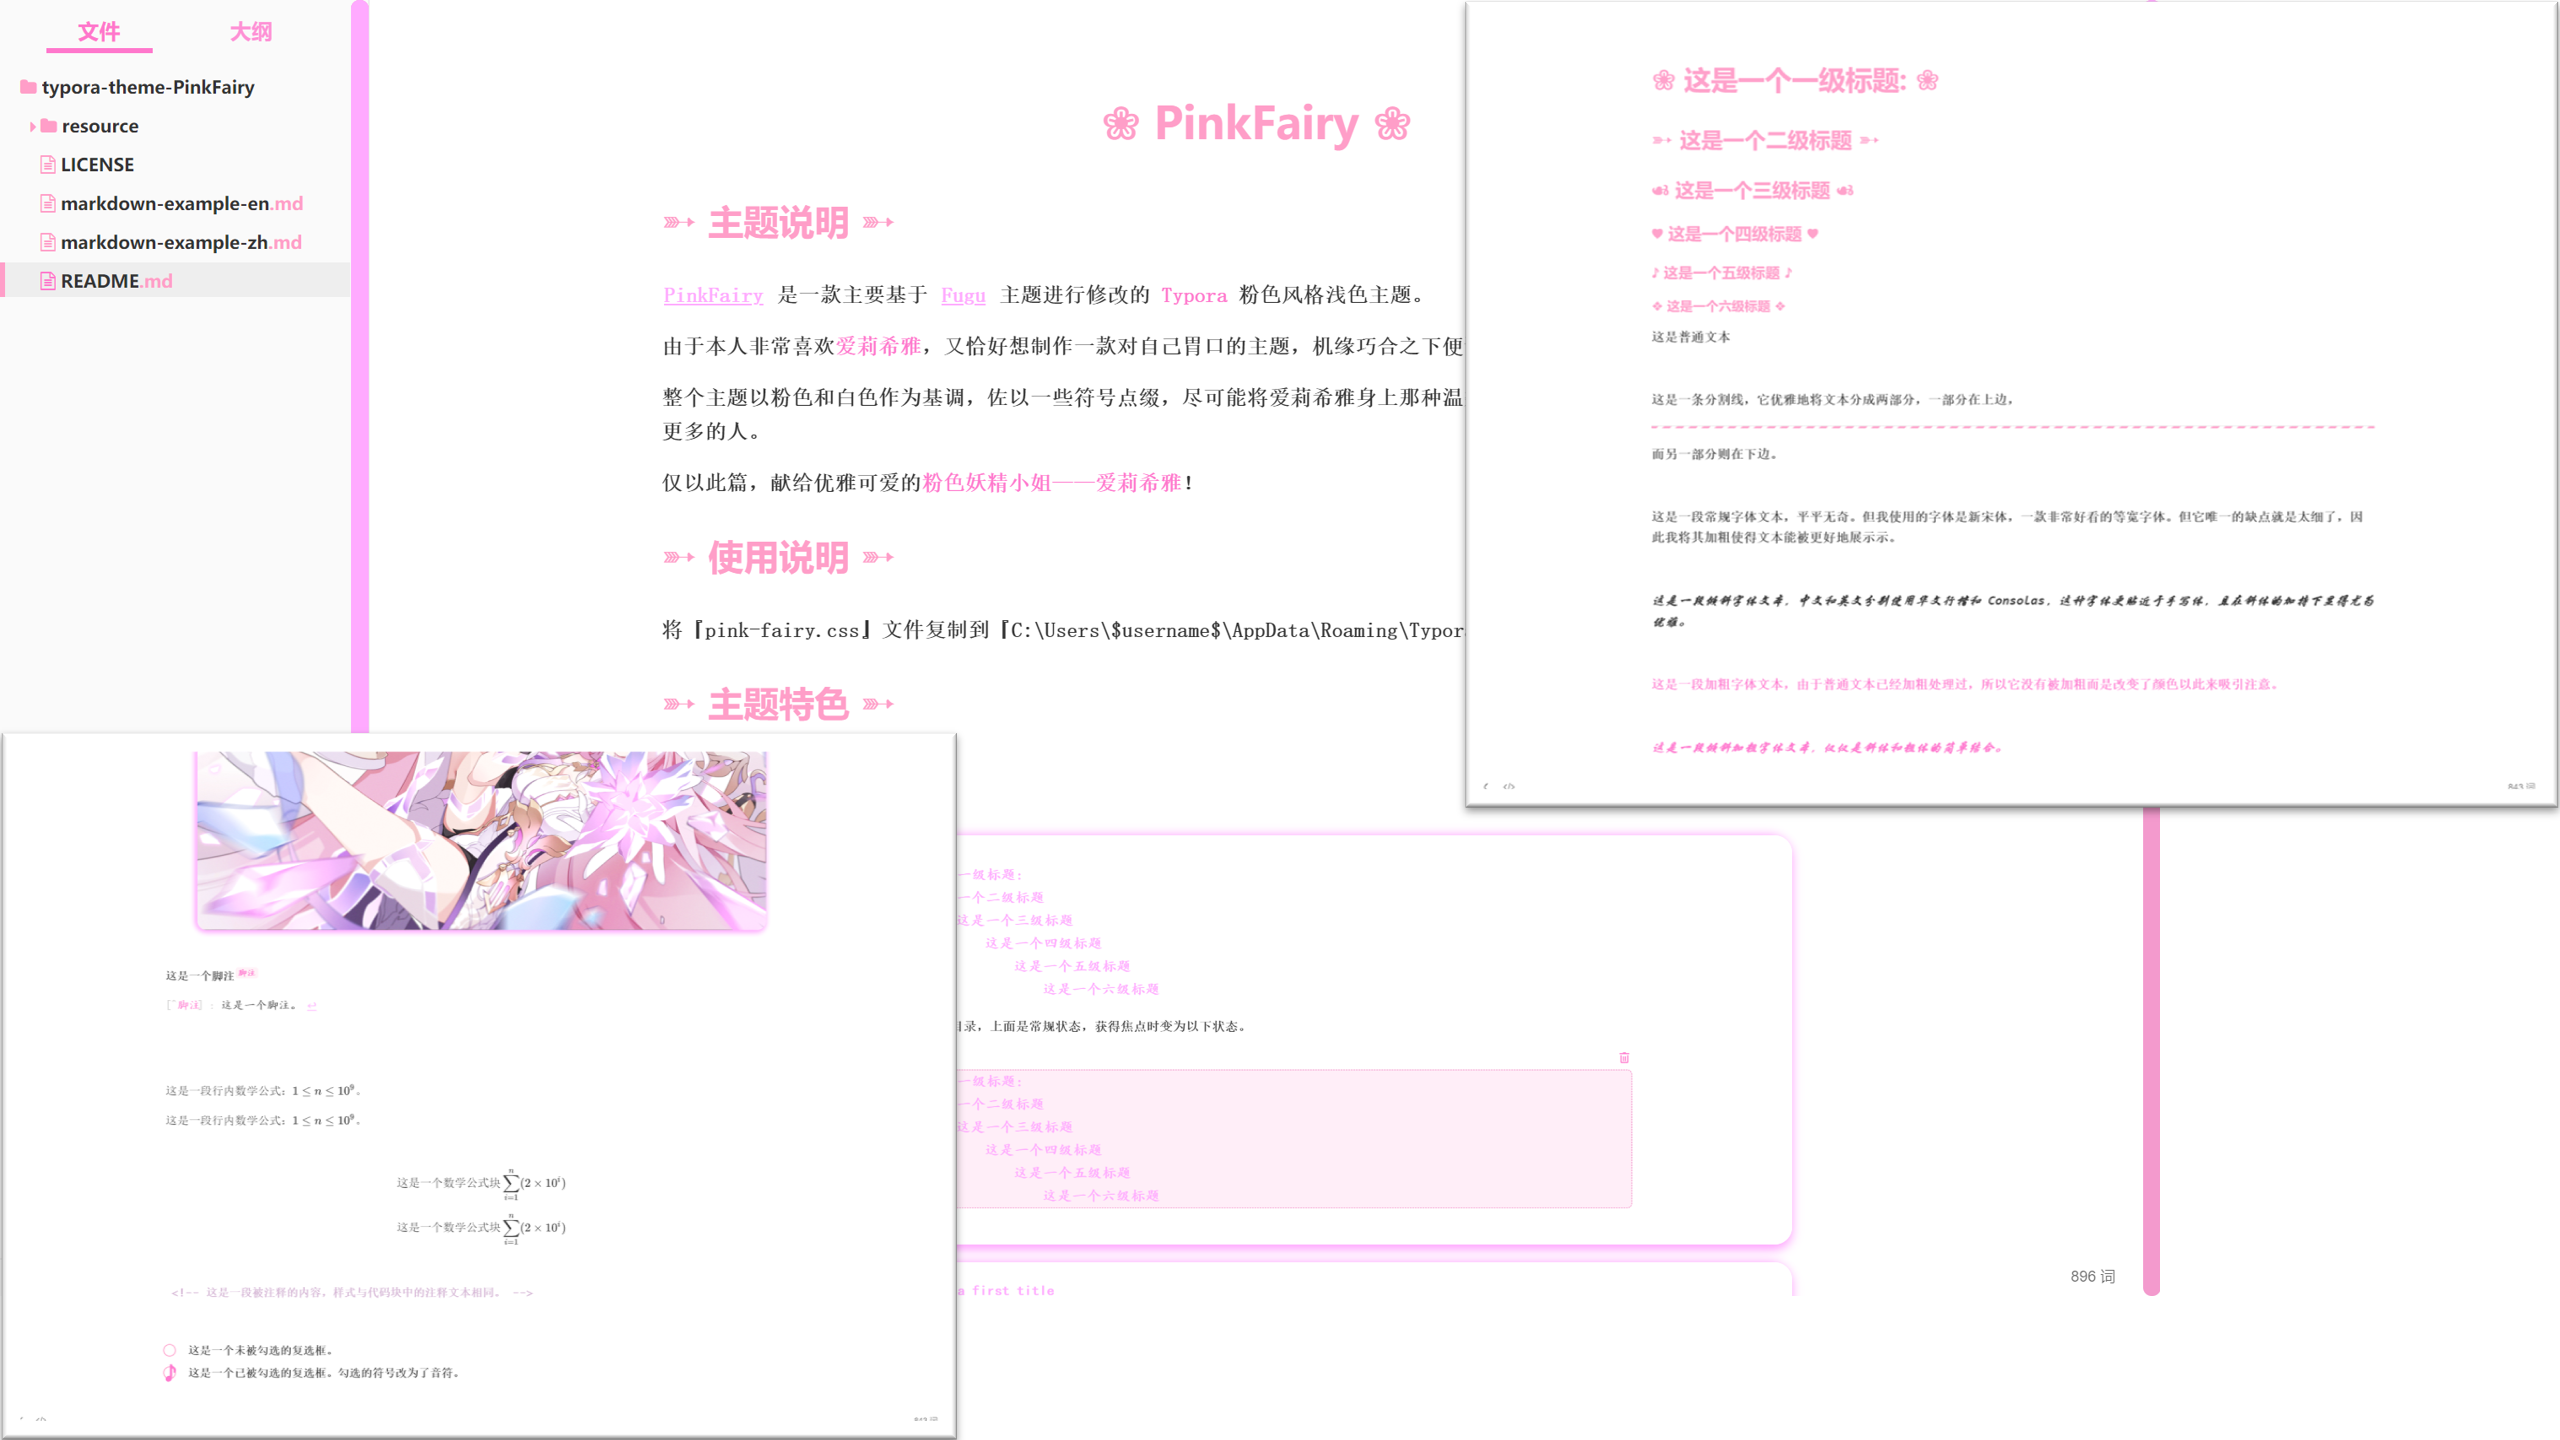
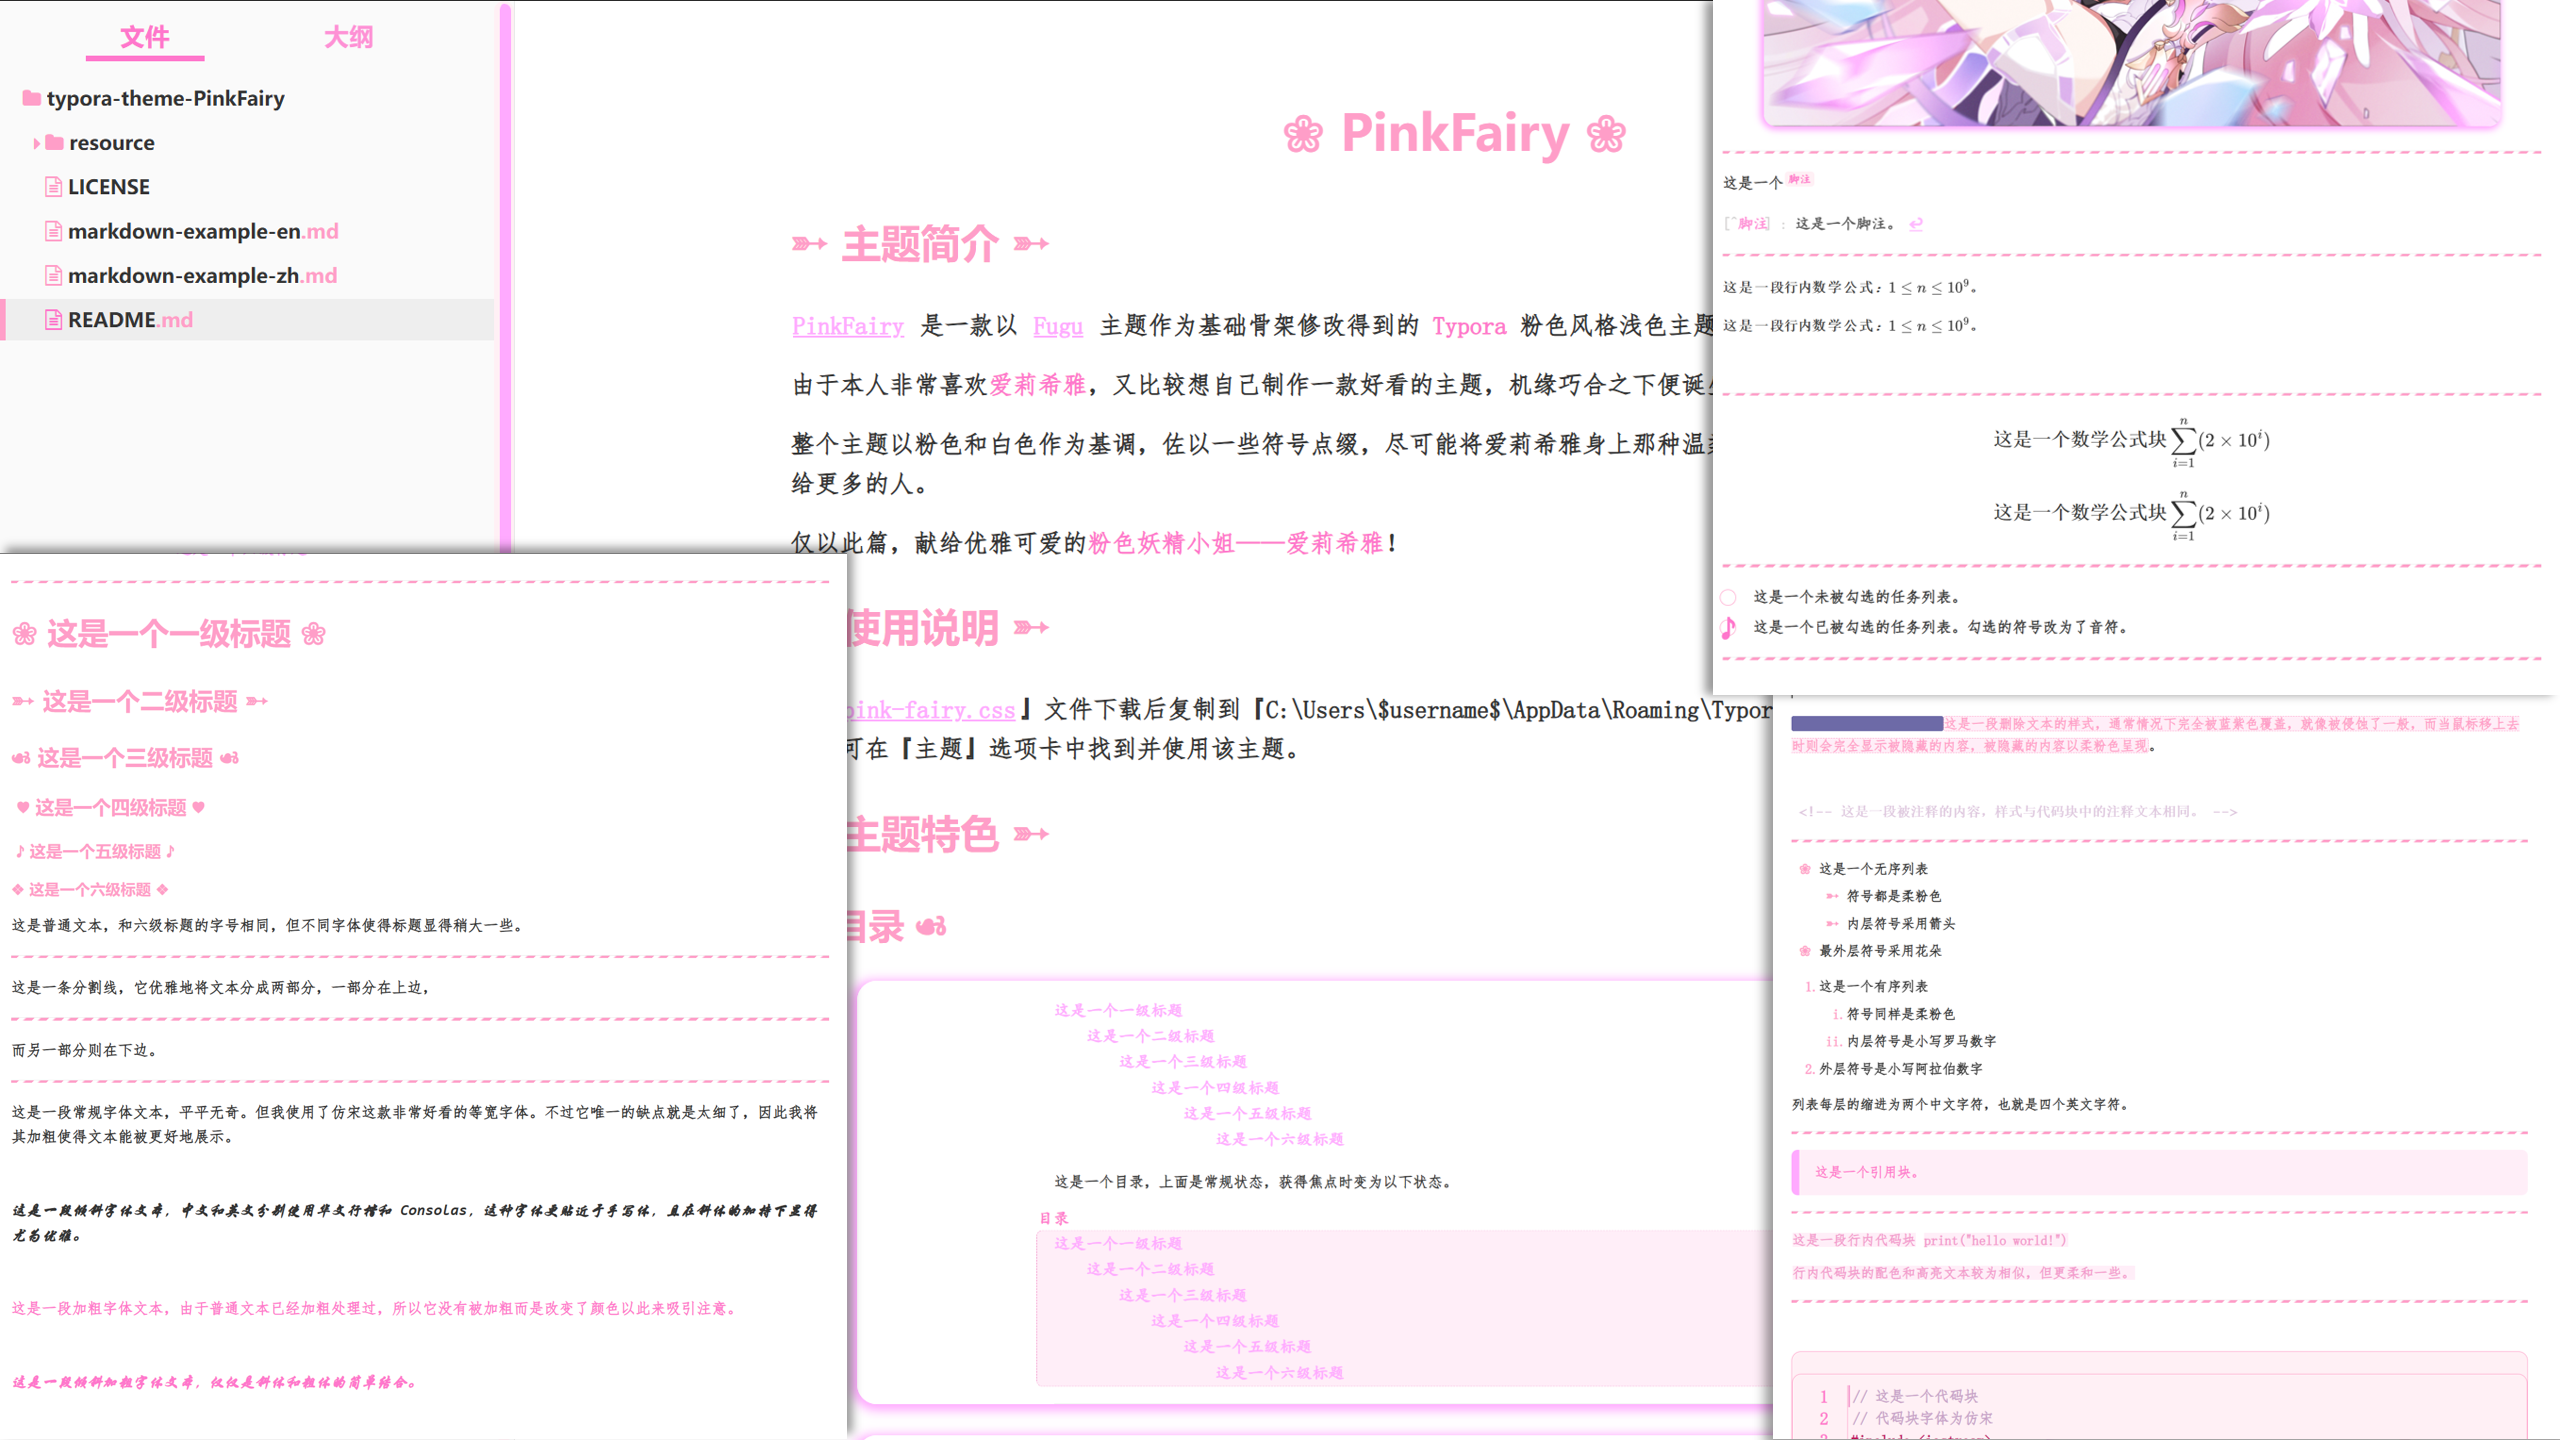
Update theme: PinkFairy

Changed region(s): [[0.0, 0.0, 1.0, 1.0], [0.7812, 0.2812, 0.875, 0.3125], [0.9688, 0.375, 1.0, 0.4062]]

diff --git a/_posts/theme/2025-10-15-PinkFairy.md b/_posts/theme/2025-10-15-PinkFairy.md
@@ -3,7 +3,7 @@ layout: theme
 title: PinkFairy
 category: theme
 homepage: https://github.com/ShimuGuyue/typora-theme-PinkFairy
-download: https://github.com/ShimuGuyue/typora-theme-PinkFairy
+download: https://github.com/ShimuGuyue/typora-theme-PinkFairy/releases/tag/PinkFairy
 built-in: false
 author: ShimuGuyue胡岩松
 thumbnail: pink-fairy.png
@@ -28,7 +28,7 @@ typora-root-url: ../../
 
 下载文件『pink-fairy.css』，
 
-放入主题文件夹『C:\Users\$username$\AppData\Roaming\Typora\themes\』,
+放入主题文件夹『C:\\Users\\\$username\$\\AppData\\Roaming\\Typora\\themes\\』,
 
 重启 typora 即可应用。
 
@@ -36,7 +36,7 @@ typora-root-url: ../../
 
 # 特色
 
-1. 主要使用**新宋体**字体！（等宽！程序员狂喜）
+1. 主要使用**仿宋**字体！（等宽！程序员狂喜）
 1. 爱莉希雅配色，无暇的少女就是这么可爱！
 
 **将爱意传递下去吧！~**
